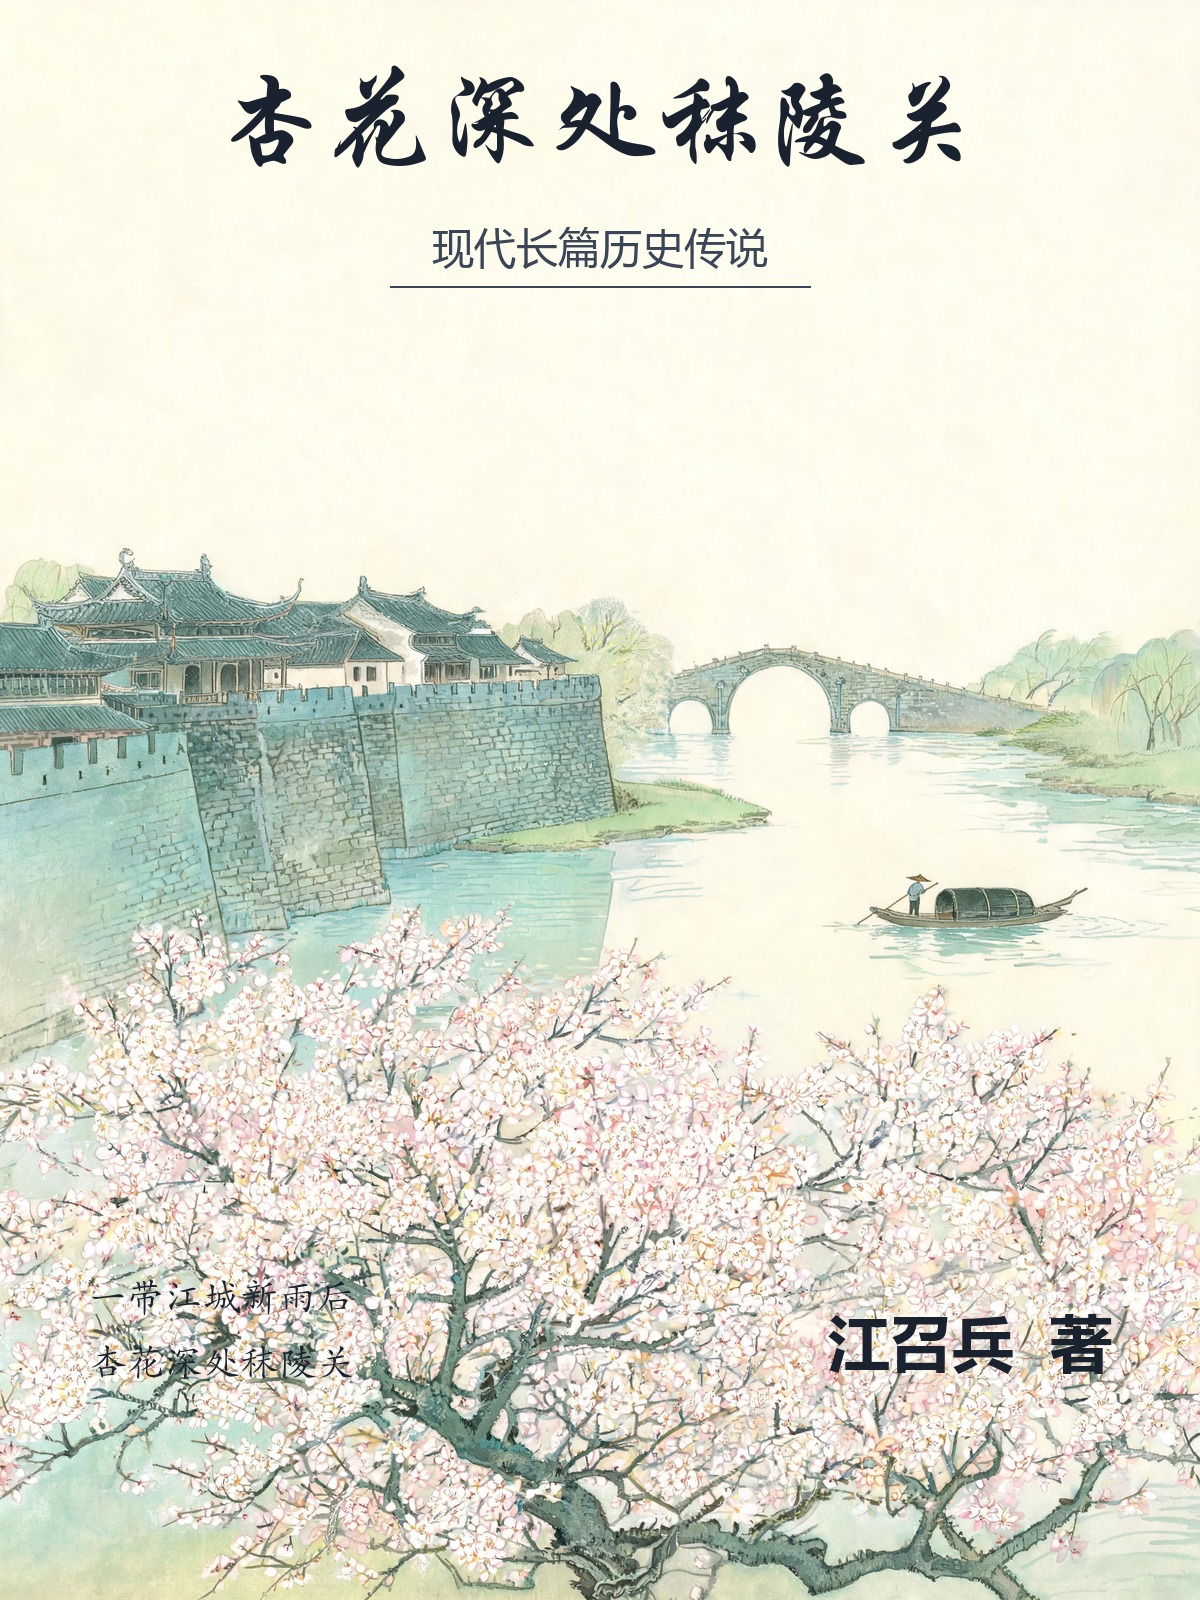
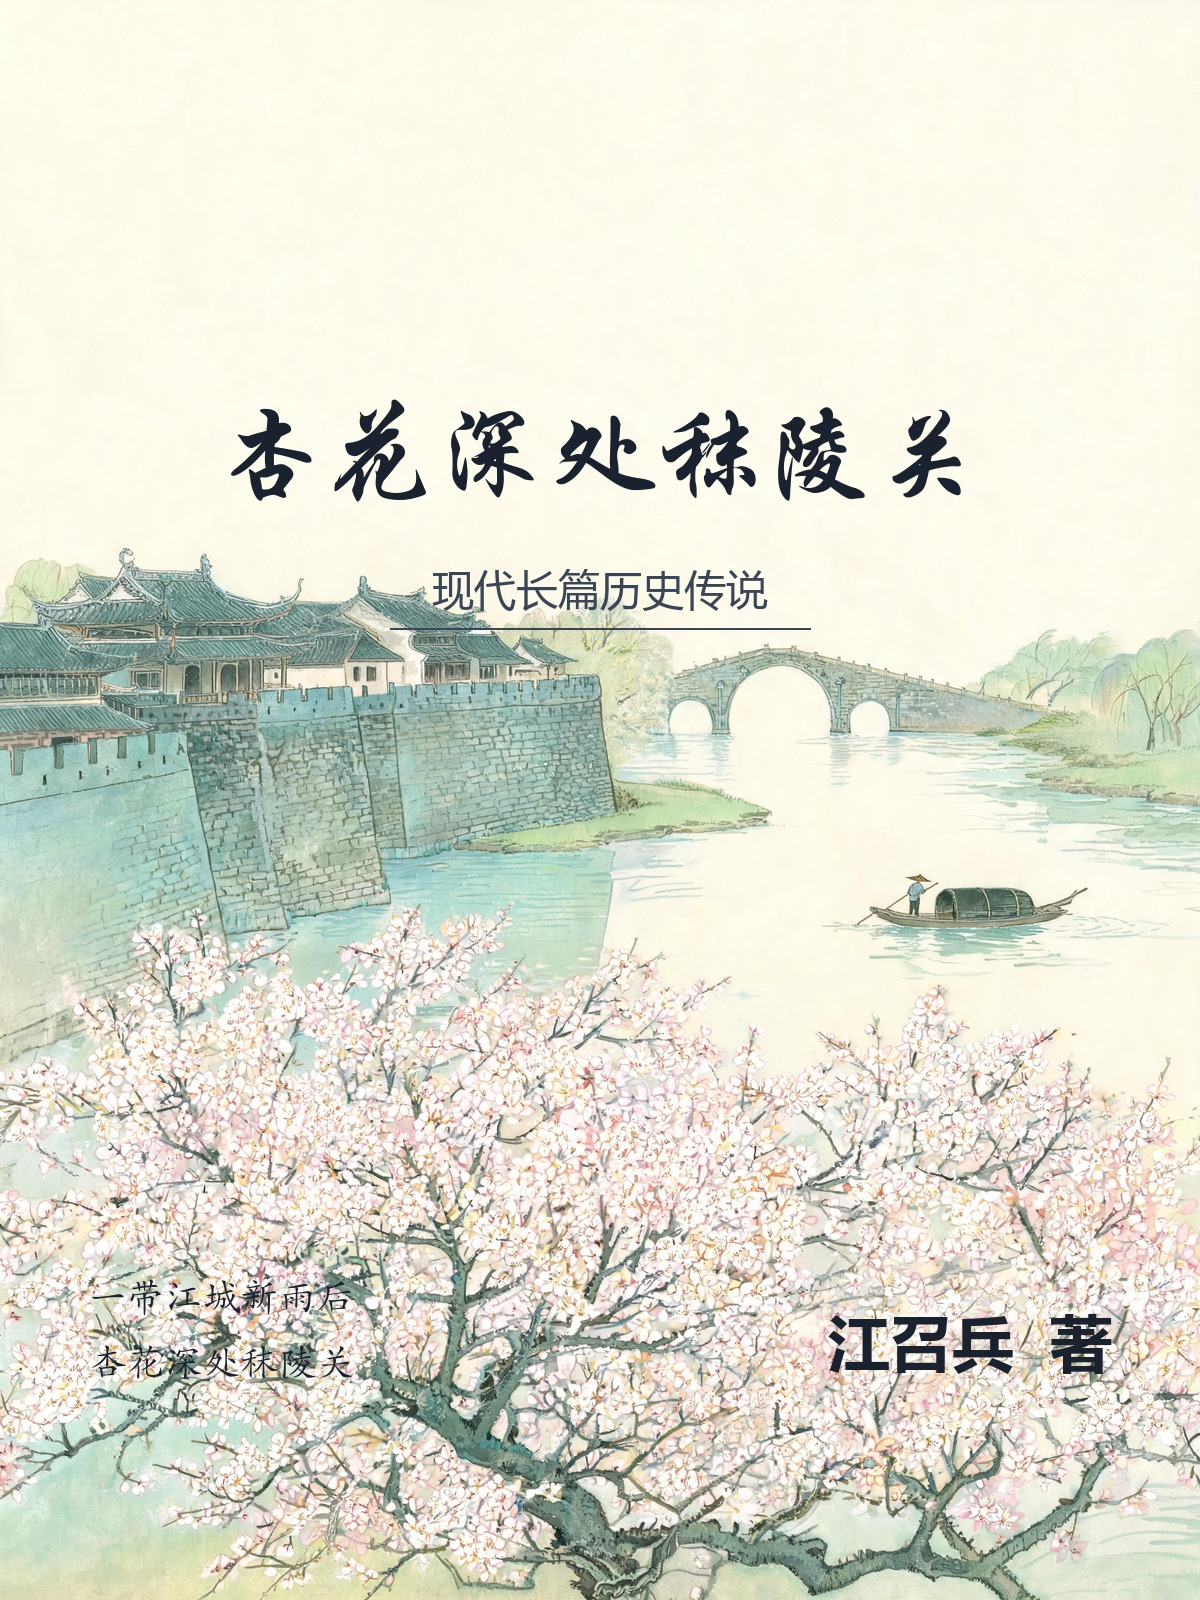
Cover: move title to quarter height; cache-bust v4

diff --git a/books/index.html b/books/index.html
@@ -390,7 +390,7 @@
 
         <article class="book-card" id="book-7">
           <figure class="book-figure">
-            <img src="./xing-hua-shen-chu-mo-ling-guan/cover.jpg?v=3" alt="Cover of Apricot Blossoms Deep Behind Moling Pass" width="1200" height="1600">
+            <img src="./xing-hua-shen-chu-mo-ling-guan/cover.jpg?v=4" alt="Cover of Apricot Blossoms Deep Behind Moling Pass" width="1200" height="1600">
             <figcaption>2026 &middot; Prologue, four volumes, sixty-seven chapters, two epilogues</figcaption>
           </figure>
           <div class="book-body">

diff --git a/zh/books.html b/zh/books.html
@@ -390,7 +390,7 @@
 
         <article class="book-card" id="book-7">
           <figure class="book-figure">
-            <img src="../books/xing-hua-shen-chu-mo-ling-guan/cover.jpg?v=3" alt="《杏花深处秣陵关》封面" width="1200" height="1600">
+            <img src="../books/xing-hua-shen-chu-mo-ling-guan/cover.jpg?v=4" alt="《杏花深处秣陵关》封面" width="1200" height="1600">
             <figcaption>2026 · 楔子＋四卷六十七章＋尾声二篇</figcaption>
           </figure>
           <div class="book-body">

diff --git a/books/xing-hua-shen-chu-mo-ling-guan/index.html b/books/xing-hua-shen-chu-mo-ling-guan/index.html
@@ -48,7 +48,7 @@
 
 <main class="reader">
   <div class="book-head">
-    <img class="web-cover" src="cover.jpg?v=3" alt="《杏花深处秣陵关》封面：江召兵著，现代长篇历史传说">
+    <img class="web-cover" src="cover.jpg?v=4" alt="《杏花深处秣陵关》封面：江召兵著，现代长篇历史传说">
     <h1 class="t">杏花深处秣陵关</h1>
     <div class="s">现代长篇历史传说</div>
     <div class="a">江召兵　著</div>
